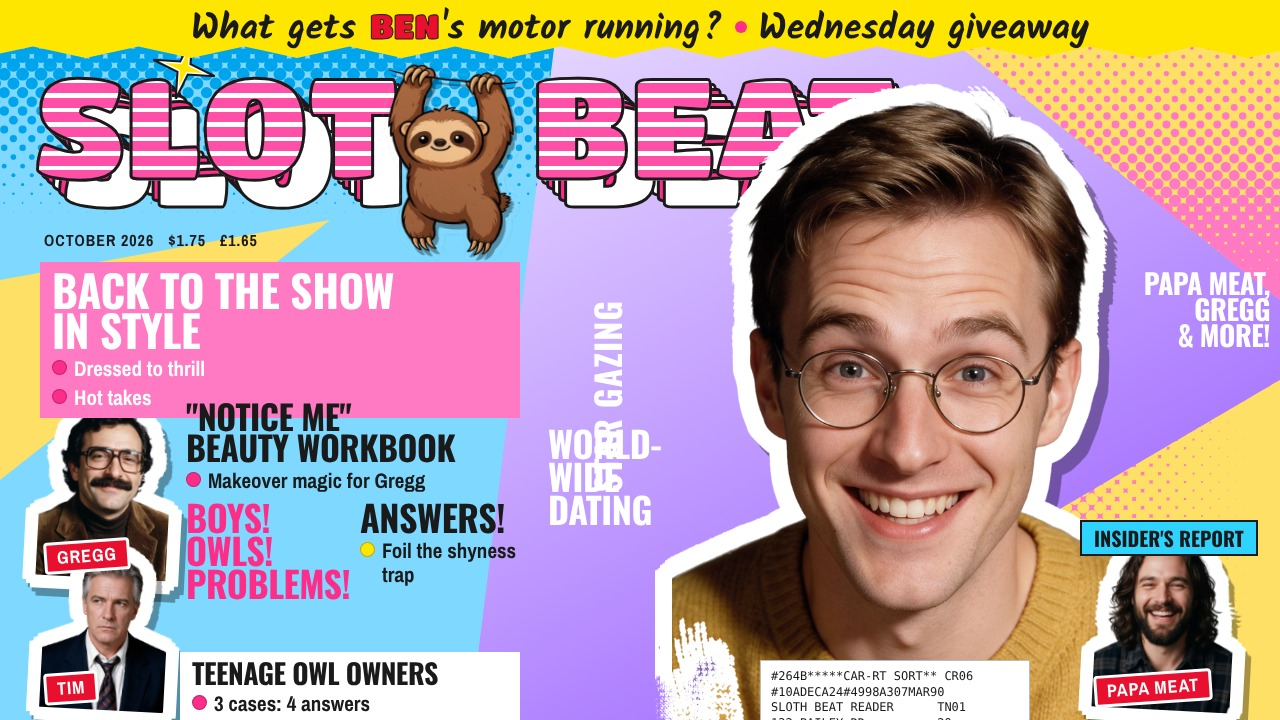
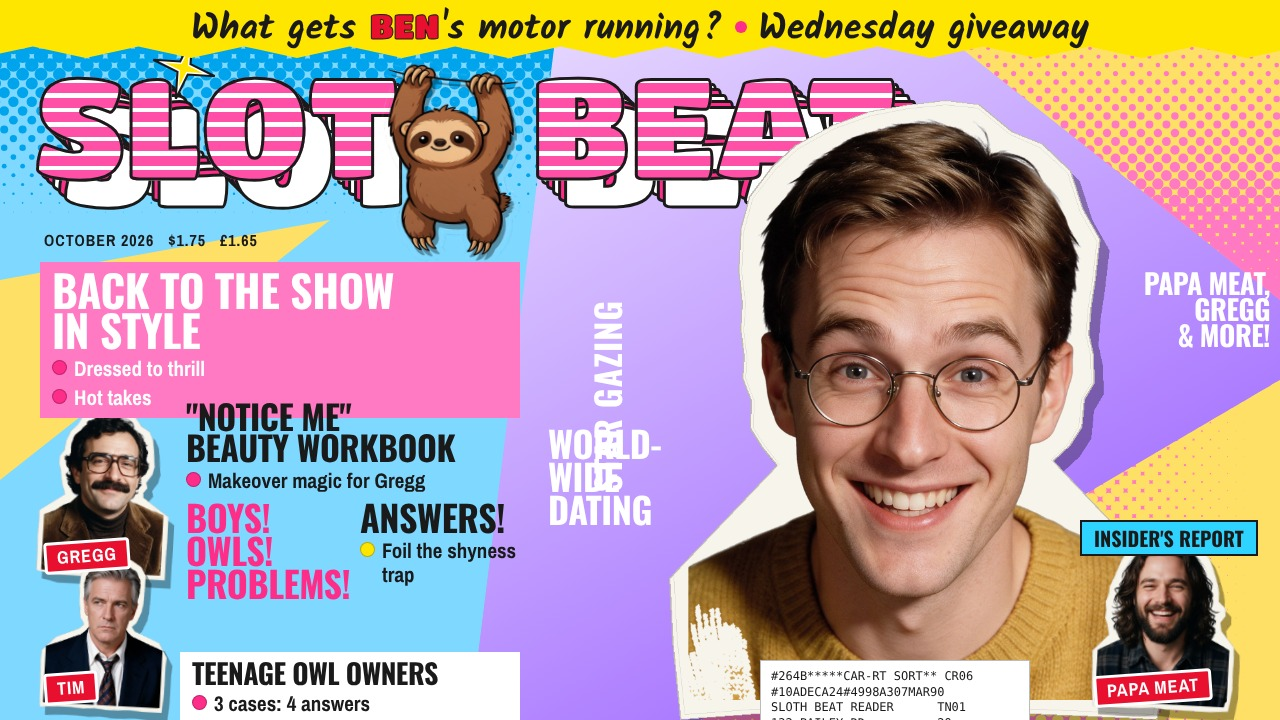
Sloth Beat v7: hand-cut paper margins on the cut-outs
Claude-Session: https://claude.ai/code/session_019p8SwDYgnY8vbcMXRQhZJi

Changed region(s): [[0.5, 0.0917, 1.0, 1.0], [0.0, 0.5806, 0.1562, 1.0]]

diff --git a/mockups/sloth_beat/01_papa_meat_v7.html b/mockups/sloth_beat/01_papa_meat_v7.html
@@ -5,5 +5,5 @@
 <div class="topstrip">The truth about <b>PAPA MEAT</b>'s obsession<i></i>22 stories inside</div>
 <div class="mast"><span class="layer l0">SLOT<span class="h">H</span> BEAT</span><span class="layer l1">SLOT<span class="h">H</span> BEAT</span><span class="layer l2">SLOT<span class="h">H</span> BEAT</span><span class="layer l3">SLOT<span class="h">H</span> BEAT</span><span class="layer l4">SLOT<span class="h">H</span> BEAT</span><span class="layer front">SLOT<span class="h">H</span> BEAT</span><svg class="glint" viewBox="0 0 60 60"><path d="M30 0 L35 25 L60 30 L35 35 L30 60 L25 35 L0 30 L25 25 Z" fill="#fff" stroke="#1a1a1a" stroke-width="2"/><path d="M30 12 L33 27 L48 30 L33 33 L30 48 L27 33 L12 30 L27 27 Z" fill="#ffe600"/></svg></div><img class="sloth" src="sloth_sticker.png">
 <div class="dateline">OCTOBER 2026 &nbsp; $1.75 &nbsp; &pound;1.65</div>
-<img class="mainphoto" src="photo_a.png" style="left:640px;top:110px;width:560px;height:610px;z-index:5"><div class="script" style="left:42px;top:262px;color:#ffe600;font-size:42px;transform:rotate(-3deg);z-index:8">stories you'll lose sleep over!</div><img class="sticker" src="photo_b.png" style="left:40px;top:290px;width:150px;height:212px;z-index:6;transform:rotate(3deg);filter:drop-shadow(5px 0px 0 #fff) drop-shadow(-5px 0px 0 #fff) drop-shadow(0px 5px 0 #fff) drop-shadow(0px -5px 0 #fff) drop-shadow(4px 4px 0 #fff) drop-shadow(-4px 4px 0 #fff) drop-shadow(4px -4px 0 #fff) drop-shadow(-4px -4px 0 #fff) drop-shadow(6px 8px 0 rgba(0,0,0,.35))"><div class="nametag" style="left:44px;top:464px;z-index:7">BEN</div><div class="cl" style="left:206px;top:322px;width:330px;z-index:8;text-align:left;"><div class="head" style="color:#fff;font-size:40px">HE'S A WINNER</div><div class="sub" style="color:#fff"><i style="background:#2fd3ff"></i>Meet Ben Avery, 5 hours live, every Wednesday</div></div><div class="cl" style="left:206px;top:430px;width:330px;z-index:8;text-align:left;"><div class="head" style="color:#fff;font-size:40px">THE LATEST<br>ON THE OWL</div><div class="sub" style="color:#fff"><i style="background:#2fd3ff"></i>A new perch at last</div></div><div class="cl" style="left:40px;top:512px;width:180px;z-index:8;text-align:left;"><div class="head" style="color:#fff;font-size:34px">STORY<br>GONE<br>LONG</div><div class="sub" style="color:#fff"><i style="background:#ffe600"></i>When the cabin tale goes too far</div></div><div class="cl" style="left:230px;top:540px;width:230px;z-index:8;text-align:left;"><div class="head" style="color:#1a1a1a;font-size:40px">GREGG'S<br>JITTERS</div><div class="sub" style="color:#1a1a1a"><i style="background:#2fd3ff"></i>From awkward to awesome</div></div><div class="cl" style="left:556px;top:380px;width:140px;z-index:8;text-align:left;"><div class="head" style="color:#fff;font-size:44px">FIVE<br>BAGS?</div><div class="sub" style="color:#fff"><i style="background:#ff2d8a"></i>Easy popcorn</div></div><div class="cl" style="left:40px;top:664px;width:420px;z-index:8;text-align:left;background:#ffe066;padding:8px 12px;"><div class="head" style="color:#1a1a1a;font-size:28px">'SLOTH BEAT INQUIRER...</div></div><img class="sticker" src="photo_c.png" style="left:470px;top:513px;width:120px;height:153px;z-index:6;transform:rotate(3deg);filter:drop-shadow(5px 0px 0 #fff) drop-shadow(-5px 0px 0 #fff) drop-shadow(0px 5px 0 #fff) drop-shadow(0px -5px 0 #fff) drop-shadow(4px 4px 0 #fff) drop-shadow(-4px 4px 0 #fff) drop-shadow(4px -4px 0 #fff) drop-shadow(-4px -4px 0 #fff) drop-shadow(6px 8px 0 rgba(0,0,0,.35))"><div class="nametag" style="left:474px;top:628px;z-index:7">TIM</div><img class="sticker" src="photo_d.png" style="left:600px;top:535px;width:110px;height:141px;z-index:6;transform:rotate(3deg);filter:drop-shadow(5px 0px 0 #fff) drop-shadow(-5px 0px 0 #fff) drop-shadow(0px 5px 0 #fff) drop-shadow(0px -5px 0 #fff) drop-shadow(4px 4px 0 #fff) drop-shadow(-4px 4px 0 #fff) drop-shadow(4px -4px 0 #fff) drop-shadow(-4px -4px 0 #fff) drop-shadow(6px 8px 0 rgba(0,0,0,.35))"><div class="nametag" style="left:604px;top:638px;z-index:7">GREGG</div><img class="sticker" src="photo_owl.png" style="left:1050px;top:490px;width:150px;height:200px;z-index:9;transform:rotate(3deg);filter:drop-shadow(5px 0px 0 #2fd3ff) drop-shadow(-5px 0px 0 #2fd3ff) drop-shadow(0px 5px 0 #2fd3ff) drop-shadow(0px -5px 0 #2fd3ff) drop-shadow(4px 4px 0 #2fd3ff) drop-shadow(-4px 4px 0 #2fd3ff) drop-shadow(4px -4px 0 #2fd3ff) drop-shadow(-4px -4px 0 #2fd3ff) drop-shadow(6px 8px 0 rgba(0,0,0,.35))"><div class="nametag" style="left:1054px;top:652px;z-index:10">THE OWL</div><div class="cl" style="left:1108px;top:322px;width:166px;z-index:9;text-align:right;"><div class="head" style="color:#1a1a1a;font-size:30px">FASHION</div><div class="sub" style="color:#1a1a1a"><i style="background:#ff2d8a"></i>Nautical and nice</div><div class="sub" style="color:#1a1a1a"><i style="background:#ff2d8a"></i>Full speed ahead</div></div><div class="tab" style="left:1060px;top:470px">insider's report</div><div class="mail" style="left:900px;top:660px">#264B*****CAR-RT SORT** CR06<br>#10ADECA24#4998A307MAR90<br>SLOTH BEAT READER &nbsp;&nbsp;&nbsp;&nbsp; TN01<br>132 BAILEY RD &nbsp;&nbsp;&nbsp;&nbsp;&nbsp;&nbsp;&nbsp;&nbsp; 29<br>ROCKY HILL &nbsp;&nbsp;&nbsp;&nbsp;&nbsp; CT 06067</div><div class="heartdot" style="left:600px;top:300px">&#9829;</div>
+<img class="mainphoto" src="photo_a_cut.png" style="left:640px;top:110px;width:560px;height:610px;z-index:5"><div class="script" style="left:42px;top:262px;color:#ffe600;font-size:42px;transform:rotate(-3deg);z-index:8">stories you'll lose sleep over!</div><img class="sticker" src="photo_b_cut.png" style="left:40px;top:290px;width:150px;height:212px;z-index:6;transform:rotate(3deg);filter:drop-shadow(6px 8px 0 rgba(0,0,0,.35))"><div class="nametag" style="left:44px;top:464px;z-index:7">BEN</div><div class="cl" style="left:206px;top:322px;width:330px;z-index:8;text-align:left;"><div class="head" style="color:#fff;font-size:40px">HE'S A WINNER</div><div class="sub" style="color:#fff"><i style="background:#2fd3ff"></i>Meet Ben Avery, 5 hours live, every Wednesday</div></div><div class="cl" style="left:206px;top:430px;width:330px;z-index:8;text-align:left;"><div class="head" style="color:#fff;font-size:40px">THE LATEST<br>ON THE OWL</div><div class="sub" style="color:#fff"><i style="background:#2fd3ff"></i>A new perch at last</div></div><div class="cl" style="left:40px;top:512px;width:180px;z-index:8;text-align:left;"><div class="head" style="color:#fff;font-size:34px">STORY<br>GONE<br>LONG</div><div class="sub" style="color:#fff"><i style="background:#ffe600"></i>When the cabin tale goes too far</div></div><div class="cl" style="left:230px;top:540px;width:230px;z-index:8;text-align:left;"><div class="head" style="color:#1a1a1a;font-size:40px">GREGG'S<br>JITTERS</div><div class="sub" style="color:#1a1a1a"><i style="background:#2fd3ff"></i>From awkward to awesome</div></div><div class="cl" style="left:556px;top:380px;width:140px;z-index:8;text-align:left;"><div class="head" style="color:#fff;font-size:44px">FIVE<br>BAGS?</div><div class="sub" style="color:#fff"><i style="background:#ff2d8a"></i>Easy popcorn</div></div><div class="cl" style="left:40px;top:664px;width:420px;z-index:8;text-align:left;background:#ffe066;padding:8px 12px;"><div class="head" style="color:#1a1a1a;font-size:28px">'SLOTH BEAT INQUIRER...</div></div><img class="sticker" src="photo_c_cut.png" style="left:470px;top:513px;width:120px;height:153px;z-index:6;transform:rotate(3deg);filter:drop-shadow(6px 8px 0 rgba(0,0,0,.35))"><div class="nametag" style="left:474px;top:628px;z-index:7">TIM</div><img class="sticker" src="photo_d_cut.png" style="left:600px;top:535px;width:110px;height:141px;z-index:6;transform:rotate(3deg);filter:drop-shadow(6px 8px 0 rgba(0,0,0,.35))"><div class="nametag" style="left:604px;top:638px;z-index:7">GREGG</div><img class="sticker" src="photo_owl_cut.png" style="left:1050px;top:490px;width:150px;height:200px;z-index:9;transform:rotate(3deg);filter:drop-shadow(6px 8px 0 rgba(0,0,0,.35))"><div class="nametag" style="left:1054px;top:652px;z-index:10">THE OWL</div><div class="cl" style="left:1118px;top:300px;width:156px;z-index:9;text-align:right;"><div class="head" style="color:#1a1a1a;font-size:30px">FASHION</div><div class="sub" style="color:#1a1a1a"><i style="background:#ff2d8a"></i>Nautical and nice</div><div class="sub" style="color:#1a1a1a"><i style="background:#ff2d8a"></i>Full speed ahead</div></div><div class="tab" style="left:1060px;top:470px">insider's report</div><div class="mail" style="left:900px;top:660px">#264B*****CAR-RT SORT** CR06<br>#10ADECA24#4998A307MAR90<br>SLOTH BEAT READER &nbsp;&nbsp;&nbsp;&nbsp; TN01<br>132 BAILEY RD &nbsp;&nbsp;&nbsp;&nbsp;&nbsp;&nbsp;&nbsp;&nbsp; 29<br>ROCKY HILL &nbsp;&nbsp;&nbsp;&nbsp;&nbsp; CT 06067</div><div class="heartdot" style="left:600px;top:300px">&#9829;</div>
 </div></body></html>

diff --git a/mockups/sloth_beat/02_ben_avery_v7.html b/mockups/sloth_beat/02_ben_avery_v7.html
@@ -5,5 +5,5 @@
 <div class="topstrip">What gets <b>BEN</b>'s motor running?<i></i>Wednesday giveaway</div>
 <div class="mast"><span class="layer l0">SLOT<span class="h">H</span> BEAT</span><span class="layer l1">SLOT<span class="h">H</span> BEAT</span><span class="layer l2">SLOT<span class="h">H</span> BEAT</span><span class="layer l3">SLOT<span class="h">H</span> BEAT</span><span class="layer l4">SLOT<span class="h">H</span> BEAT</span><span class="layer front">SLOT<span class="h">H</span> BEAT</span><svg class="glint" viewBox="0 0 60 60"><path d="M30 0 L35 25 L60 30 L35 35 L30 60 L25 35 L0 30 L25 25 Z" fill="#fff" stroke="#1a1a1a" stroke-width="2"/><path d="M30 12 L33 27 L48 30 L33 33 L30 48 L27 33 L12 30 L27 27 Z" fill="#ffe600"/></svg></div><img class="sloth" src="sloth_sticker.png">
 <div class="dateline">OCTOBER 2026 &nbsp; $1.75 &nbsp; &pound;1.65</div>
-<img class="mainphoto" src="photo_b.png" style="left:620px;top:100px;width:600px;height:620px;z-index:5"><div class="cl" style="left:40px;top:262px;width:480px;z-index:8;text-align:left;background:#ff7ac3;padding:8px 12px;"><div class="head" style="color:#fff;font-size:44px">BACK TO THE SHOW<br>IN STYLE</div><div class="sub" style="color:#fff"><i style="background:#ff2d8a"></i>Dressed to thrill</div><div class="sub" style="color:#fff"><i style="background:#ff2d8a"></i>Hot takes</div></div><img class="sticker" src="photo_d.png" style="left:40px;top:401px;width:130px;height:177px;z-index:6;transform:rotate(3deg);filter:drop-shadow(5px 0px 0 #fff) drop-shadow(-5px 0px 0 #fff) drop-shadow(0px 5px 0 #fff) drop-shadow(0px -5px 0 #fff) drop-shadow(4px 4px 0 #fff) drop-shadow(-4px 4px 0 #fff) drop-shadow(4px -4px 0 #fff) drop-shadow(-4px -4px 0 #fff) drop-shadow(6px 8px 0 rgba(0,0,0,.35))"><div class="nametag" style="left:44px;top:540px;z-index:7">GREGG</div><div class="cl" style="left:186px;top:400px;width:340px;z-index:8;text-align:left;"><div class="head" style="color:#1a1a1a;font-size:34px">"NOTICE ME"<br>BEAUTY WORKBOOK</div><div class="sub" style="color:#1a1a1a"><i style="background:#ff2d8a"></i>Makeover magic for Gregg</div></div><div class="cl" style="left:186px;top:500px;width:180px;z-index:8;text-align:left;"><div class="head" style="color:#ff2d8a;font-size:36px">BOYS!<br>OWLS!<br>PROBLEMS!</div></div><div class="cl" style="left:360px;top:500px;width:170px;z-index:8;text-align:left;"><div class="head" style="color:#1a1a1a;font-size:36px">ANSWERS!</div><div class="sub" style="color:#1a1a1a"><i style="background:#ffe600"></i>Foil the shyness trap</div></div><img class="sticker" src="photo_c.png" style="left:40px;top:557px;width:130px;height:153px;z-index:6;transform:rotate(3deg);filter:drop-shadow(5px 0px 0 #fff) drop-shadow(-5px 0px 0 #fff) drop-shadow(0px 5px 0 #fff) drop-shadow(0px -5px 0 #fff) drop-shadow(4px 4px 0 #fff) drop-shadow(-4px 4px 0 #fff) drop-shadow(4px -4px 0 #fff) drop-shadow(-4px -4px 0 #fff) drop-shadow(6px 8px 0 rgba(0,0,0,.35))"><div class="nametag" style="left:44px;top:672px;z-index:7">TIM</div><div class="cl" style="left:548px;top:426px;width:150px;z-index:8;text-align:left;"><div class="head" style="color:#fff;font-size:36px">WORLD-<br>WIDE<br>DATING</div></div><div class="cl" style="left:1090px;top:270px;width:180px;z-index:9;text-align:right;"><div class="head" style="color:#fff;font-size:28px">PAPA MEAT,<br>GREGG<br>&amp; MORE!</div></div><img class="sticker" src="photo_a.png" style="left:1090px;top:533px;width:150px;height:177px;z-index:9;transform:rotate(3deg);filter:drop-shadow(5px 0px 0 #fff) drop-shadow(-5px 0px 0 #fff) drop-shadow(0px 5px 0 #fff) drop-shadow(0px -5px 0 #fff) drop-shadow(4px 4px 0 #fff) drop-shadow(-4px 4px 0 #fff) drop-shadow(4px -4px 0 #fff) drop-shadow(-4px -4px 0 #fff) drop-shadow(6px 8px 0 rgba(0,0,0,.35))"><div class="nametag" style="left:1094px;top:672px;z-index:10">PAPA MEAT</div><div class="tab" style="left:1080px;top:520px">insider's report</div><div class="cl" style="left:180px;top:652px;width:340px;z-index:8;text-align:left;background:#fff;padding:8px 12px;"><div class="head" style="color:#1a1a1a;font-size:28px">TEENAGE OWL OWNERS</div><div class="sub" style="color:#1a1a1a"><i style="background:#ff2d8a"></i>3 cases: 4 answers</div></div><div class="vert" style="left:590px;top:300px">Star gazing</div><div class="mail" style="left:760px;top:660px">#264B*****CAR-RT SORT** CR06<br>#10ADECA24#4998A307MAR90<br>SLOTH BEAT READER &nbsp;&nbsp;&nbsp;&nbsp; TN01<br>132 BAILEY RD &nbsp;&nbsp;&nbsp;&nbsp;&nbsp;&nbsp;&nbsp;&nbsp; 29<br>ROCKY HILL &nbsp;&nbsp;&nbsp;&nbsp;&nbsp; CT 06067</div>
+<img class="mainphoto" src="photo_b_cut.png" style="left:620px;top:100px;width:600px;height:620px;z-index:5"><div class="cl" style="left:40px;top:262px;width:480px;z-index:8;text-align:left;background:#ff7ac3;padding:8px 12px;"><div class="head" style="color:#fff;font-size:44px">BACK TO THE SHOW<br>IN STYLE</div><div class="sub" style="color:#fff"><i style="background:#ff2d8a"></i>Dressed to thrill</div><div class="sub" style="color:#fff"><i style="background:#ff2d8a"></i>Hot takes</div></div><img class="sticker" src="photo_d_cut.png" style="left:40px;top:401px;width:130px;height:177px;z-index:6;transform:rotate(3deg);filter:drop-shadow(6px 8px 0 rgba(0,0,0,.35))"><div class="nametag" style="left:44px;top:540px;z-index:7">GREGG</div><div class="cl" style="left:186px;top:400px;width:340px;z-index:8;text-align:left;"><div class="head" style="color:#1a1a1a;font-size:34px">"NOTICE ME"<br>BEAUTY WORKBOOK</div><div class="sub" style="color:#1a1a1a"><i style="background:#ff2d8a"></i>Makeover magic for Gregg</div></div><div class="cl" style="left:186px;top:500px;width:180px;z-index:8;text-align:left;"><div class="head" style="color:#ff2d8a;font-size:36px">BOYS!<br>OWLS!<br>PROBLEMS!</div></div><div class="cl" style="left:360px;top:500px;width:170px;z-index:8;text-align:left;"><div class="head" style="color:#1a1a1a;font-size:36px">ANSWERS!</div><div class="sub" style="color:#1a1a1a"><i style="background:#ffe600"></i>Foil the shyness trap</div></div><img class="sticker" src="photo_c_cut.png" style="left:40px;top:557px;width:130px;height:153px;z-index:6;transform:rotate(3deg);filter:drop-shadow(6px 8px 0 rgba(0,0,0,.35))"><div class="nametag" style="left:44px;top:672px;z-index:7">TIM</div><div class="cl" style="left:548px;top:426px;width:150px;z-index:8;text-align:left;"><div class="head" style="color:#fff;font-size:36px">WORLD-<br>WIDE<br>DATING</div></div><div class="cl" style="left:1090px;top:270px;width:180px;z-index:9;text-align:right;"><div class="head" style="color:#fff;font-size:28px">PAPA MEAT,<br>GREGG<br>&amp; MORE!</div></div><img class="sticker" src="photo_a_cut.png" style="left:1090px;top:533px;width:150px;height:177px;z-index:9;transform:rotate(3deg);filter:drop-shadow(6px 8px 0 rgba(0,0,0,.35))"><div class="nametag" style="left:1094px;top:672px;z-index:10">PAPA MEAT</div><div class="tab" style="left:1080px;top:520px">insider's report</div><div class="cl" style="left:180px;top:652px;width:340px;z-index:8;text-align:left;background:#fff;padding:8px 12px;"><div class="head" style="color:#1a1a1a;font-size:28px">TEENAGE OWL OWNERS</div><div class="sub" style="color:#1a1a1a"><i style="background:#ff2d8a"></i>3 cases: 4 answers</div></div><div class="vert" style="left:590px;top:300px">Star gazing</div><div class="mail" style="left:760px;top:660px">#264B*****CAR-RT SORT** CR06<br>#10ADECA24#4998A307MAR90<br>SLOTH BEAT READER &nbsp;&nbsp;&nbsp;&nbsp; TN01<br>132 BAILEY RD &nbsp;&nbsp;&nbsp;&nbsp;&nbsp;&nbsp;&nbsp;&nbsp; 29<br>ROCKY HILL &nbsp;&nbsp;&nbsp;&nbsp;&nbsp; CT 06067</div>
 </div></body></html>

diff --git a/mockups/sloth_beat/03_on_cinema_v7.html b/mockups/sloth_beat/03_on_cinema_v7.html
@@ -5,5 +5,5 @@
 <div class="topstrip">Inside: <b>GREGG</b>'s popcorn diary<i></i>16 seasons of beef</div>
 <div class="mast"><span class="layer l0">SLOT<span class="h">H</span> BEAT</span><span class="layer l1">SLOT<span class="h">H</span> BEAT</span><span class="layer l2">SLOT<span class="h">H</span> BEAT</span><span class="layer l3">SLOT<span class="h">H</span> BEAT</span><span class="layer l4">SLOT<span class="h">H</span> BEAT</span><span class="layer front">SLOT<span class="h">H</span> BEAT</span><svg class="glint" viewBox="0 0 60 60"><path d="M30 0 L35 25 L60 30 L35 35 L30 60 L25 35 L0 30 L25 25 Z" fill="#fff" stroke="#1a1a1a" stroke-width="2"/><path d="M30 12 L33 27 L48 30 L33 33 L30 48 L27 33 L12 30 L27 27 Z" fill="#ffe600"/></svg></div><img class="sloth" src="sloth_sticker.png">
 <div class="dateline">OCTOBER 2026 &nbsp; $1.75 &nbsp; &pound;1.65</div>
-<img class="mainphoto" src="photo_d.png" style="left:560px;top:120px;width:420px;height:600px;z-index:5"><img class="mainphoto" src="photo_c.png" style="left:860px;top:100px;width:420px;height:620px;z-index:4"><div class="script" style="left:42px;top:262px;color:#e8102e;font-size:42px;transform:rotate(-2deg);z-index:8">pull things together!</div><img class="sticker" src="photo_b.png" style="left:40px;top:286px;width:170px;height:236px;z-index:6;transform:rotate(3deg);filter:drop-shadow(5px 0px 0 #fff) drop-shadow(-5px 0px 0 #fff) drop-shadow(0px 5px 0 #fff) drop-shadow(0px -5px 0 #fff) drop-shadow(4px 4px 0 #fff) drop-shadow(-4px 4px 0 #fff) drop-shadow(4px -4px 0 #fff) drop-shadow(-4px -4px 0 #fff) drop-shadow(6px 8px 0 rgba(0,0,0,.35))"><div class="nametag" style="left:44px;top:484px;z-index:7">BEN</div><div class="cl" style="left:226px;top:322px;width:300px;z-index:8;text-align:left;"><div class="head" style="color:#1a1a1a;font-size:40px">BEST<br>BAGS<br>BETS</div><div class="sub" style="color:#1a1a1a"><i style="background:#ff2d8a"></i>Point by point popcorn</div></div><div class="cl" style="left:40px;top:548px;width:250px;z-index:8;text-align:left;background:#ff7ac3;padding:8px 12px;"><div class="head" style="color:#fff;font-size:32px">STAR GAZING</div><div class="sub" style="color:#fff"><i style="background:#ff2d8a"></i>Gregg Turkington</div><div class="sub" style="color:#fff"><i style="background:#ff2d8a"></i>Tim Heidecker</div><div class="sub" style="color:#fff"><i style="background:#ff2d8a"></i>And more</div></div><div class="cl" style="left:300px;top:480px;width:240px;z-index:8;text-align:left;background:#ffe066;padding:8px 12px;"><div class="head" style="color:#1a1a1a;font-size:30px">GO TOGETHERS</div><div class="sub" style="color:#1a1a1a"><i style="background:#ff2d8a"></i>Oscars for anything, everywhere</div></div><div class="cl" style="left:300px;top:580px;width:240px;z-index:8;text-align:left;"><div class="head" style="color:#1a1a1a;font-size:36px">SILENT<br>SIGNALS</div><div class="sub" style="color:#1a1a1a"><i style="background:#2fd3ff"></i>Strong language</div></div><div class="cl" style="left:560px;top:560px;width:300px;z-index:9;text-align:left;background:#fff;padding:8px 12px;"><div class="head" style="color:#1a1a1a;font-size:34px">MISS POPCORN<br>AMERICA 2026</div><div class="sub" style="color:#1a1a1a"><i style="background:#ff2d8a"></i>Star student; whiz sportsgirl</div></div><img class="sticker" src="photo_owl.png" style="left:1090px;top:510px;width:150px;height:200px;z-index:9;transform:rotate(3deg);filter:drop-shadow(5px 0px 0 #ffe600) drop-shadow(-5px 0px 0 #ffe600) drop-shadow(0px 5px 0 #ffe600) drop-shadow(0px -5px 0 #ffe600) drop-shadow(4px 4px 0 #ffe600) drop-shadow(-4px 4px 0 #ffe600) drop-shadow(4px -4px 0 #ffe600) drop-shadow(-4px -4px 0 #ffe600) drop-shadow(6px 8px 0 rgba(0,0,0,.35))"><div class="nametag" style="left:1094px;top:672px;z-index:10">THE OWL</div><div class="cl" style="left:880px;top:462px;width:190px;z-index:9;text-align:left;background:#fff;padding:8px 12px;"><div class="head" style="color:#1a1a1a;font-size:30px">HAIR<br>HASSLES?</div><div class="sub" style="color:#1a1a1a"><i style="background:#ff2d8a"></i>Take-charge tips</div></div><div class="mail" style="left:560px;top:676px">#264B*****CAR-RT SORT** CR06<br>#10ADECA24#4998A307MAR90<br>SLOTH BEAT READER &nbsp;&nbsp;&nbsp;&nbsp; TN01<br>132 BAILEY RD &nbsp;&nbsp;&nbsp;&nbsp;&nbsp;&nbsp;&nbsp;&nbsp; 29<br>ROCKY HILL &nbsp;&nbsp;&nbsp;&nbsp;&nbsp; CT 06067</div>
+<img class="mainphoto" src="photo_d_cut.png" style="left:560px;top:120px;width:420px;height:600px;z-index:5"><img class="mainphoto" src="photo_c_cut.png" style="left:860px;top:100px;width:420px;height:620px;z-index:4"><div class="script" style="left:42px;top:262px;color:#e8102e;font-size:42px;transform:rotate(-2deg);z-index:8">pull things together!</div><img class="sticker" src="photo_b_cut.png" style="left:40px;top:286px;width:170px;height:236px;z-index:6;transform:rotate(3deg);filter:drop-shadow(6px 8px 0 rgba(0,0,0,.35))"><div class="nametag" style="left:44px;top:484px;z-index:7">BEN</div><div class="cl" style="left:226px;top:322px;width:300px;z-index:8;text-align:left;"><div class="head" style="color:#1a1a1a;font-size:40px">BEST<br>BAGS<br>BETS</div><div class="sub" style="color:#1a1a1a"><i style="background:#ff2d8a"></i>Point by point popcorn</div></div><div class="cl" style="left:40px;top:548px;width:250px;z-index:8;text-align:left;background:#ff7ac3;padding:8px 12px;"><div class="head" style="color:#fff;font-size:32px">STAR GAZING</div><div class="sub" style="color:#fff"><i style="background:#ff2d8a"></i>Gregg Turkington</div><div class="sub" style="color:#fff"><i style="background:#ff2d8a"></i>Tim Heidecker</div><div class="sub" style="color:#fff"><i style="background:#ff2d8a"></i>And more</div></div><div class="cl" style="left:300px;top:480px;width:240px;z-index:8;text-align:left;background:#ffe066;padding:8px 12px;"><div class="head" style="color:#1a1a1a;font-size:30px">GO TOGETHERS</div><div class="sub" style="color:#1a1a1a"><i style="background:#ff2d8a"></i>Oscars for anything, everywhere</div></div><div class="cl" style="left:300px;top:580px;width:240px;z-index:8;text-align:left;"><div class="head" style="color:#1a1a1a;font-size:36px">SILENT<br>SIGNALS</div><div class="sub" style="color:#1a1a1a"><i style="background:#2fd3ff"></i>Strong language</div></div><div class="cl" style="left:560px;top:560px;width:300px;z-index:9;text-align:left;background:#fff;padding:8px 12px;"><div class="head" style="color:#1a1a1a;font-size:34px">MISS POPCORN<br>AMERICA 2026</div><div class="sub" style="color:#1a1a1a"><i style="background:#ff2d8a"></i>Star student; whiz sportsgirl</div></div><img class="sticker" src="photo_owl_cut.png" style="left:1090px;top:510px;width:150px;height:200px;z-index:9;transform:rotate(3deg);filter:drop-shadow(6px 8px 0 rgba(0,0,0,.35))"><div class="nametag" style="left:1094px;top:672px;z-index:10">THE OWL</div><div class="cl" style="left:880px;top:462px;width:190px;z-index:9;text-align:left;background:#fff;padding:8px 12px;"><div class="head" style="color:#1a1a1a;font-size:30px">HAIR<br>HASSLES?</div><div class="sub" style="color:#1a1a1a"><i style="background:#ff2d8a"></i>Take-charge tips</div></div><div class="mail" style="left:560px;top:676px">#264B*****CAR-RT SORT** CR06<br>#10ADECA24#4998A307MAR90<br>SLOTH BEAT READER &nbsp;&nbsp;&nbsp;&nbsp; TN01<br>132 BAILEY RD &nbsp;&nbsp;&nbsp;&nbsp;&nbsp;&nbsp;&nbsp;&nbsp; 29<br>ROCKY HILL &nbsp;&nbsp;&nbsp;&nbsp;&nbsp; CT 06067</div>
 </div></body></html>

diff --git a/mockups/sloth_beat/cover_v7.css b/mockups/sloth_beat/cover_v7.css
@@ -24,7 +24,7 @@ html,body{width:1280px;height:720px;overflow:hidden;background:#222}
 .sloth{left:380px;top:60px;width:140px;height:200px;z-index:7;transform:rotate(2deg);filter:drop-shadow(3px 5px 0 rgba(0,0,0,.35))}
 .dateline{left:44px;top:232px;z-index:8;font:700 16px/1 "Archivo Narrow";letter-spacing:1px;color:#1a1a1a;text-transform:uppercase}
 /* photos */
-.mainphoto{object-fit:contain;object-position:bottom center;filter:drop-shadow(7px 0 0 #fff) drop-shadow(-7px 0 0 #fff) drop-shadow(0 7px 0 #fff) drop-shadow(0 -7px 0 #fff) drop-shadow(5px 5px 0 #fff) drop-shadow(-5px 5px 0 #fff) drop-shadow(5px -5px 0 #fff) drop-shadow(-5px -5px 0 #fff) drop-shadow(10px 12px 0 rgba(0,0,0,.35))}
+.mainphoto{object-fit:contain;object-position:bottom center;filter:drop-shadow(9px 11px 0 rgba(0,0,0,.32))}
 .frame{border:7px solid #fff;outline:2px solid #1a1a1a;overflow:hidden;box-shadow:4px 5px 0 rgba(0,0,0,.25)}
 .frame img{position:absolute;left:0;bottom:-2px;width:100%;height:104%;object-fit:cover;object-position:top center}
 .sticker{object-fit:contain;object-position:bottom center}

diff --git a/HANDOFF.md b/HANDOFF.md
@@ -420,7 +420,9 @@ chose: Content Posting API upload to inbox, user taps post), #29 direct posting 
   (two of the 'Teen scans did not arrive as files; notes only). User chose v6 and asked for a mix: **v7** = v6 layout with gradient panels and two-ink crossover halftones on the wedges (user's reference in
   `refs/halftone_gradient_ref.*`; text never on a face or on dots; small portraits as stickers with red name
   bars; main portrait a cut-out too; wire sloth (`sloth_sticker.png`) is the mascot after all; wavy yellow
-  ribbon with teasing copy on top; an overlap check (text box vs photo alpha, boxed lines exempt) passes; `refs/halftone_swatches.*` = the palette's ink pairs; `*_v5hp.*` = v5 with halftone instead of mosaic) (`*_v7.*`),
+  ribbon with teasing copy on top; an overlap check (text box vs photo alpha, boxed lines exempt) passes; cut-outs have a **hand-cut paper
+  margin** baked in (`handcut.py`: dilate, coarse radial polygon with wobble, off-white paper), per the
+  user's collage reference; `refs/halftone_swatches.*` = the palette's ink pairs; `*_v5hp.*` = v5 with halftone instead of mosaic) (`*_v7.*`),
   **the current direction**. Next: real frames from the user, Illustrator master, `[thumbnail] style = "fanmag"`.
   Waiting on the user's reaction; then Illustrator master, `style = "fanmag"`, `clipper intro`.
 - **Renderer decision (proposed, user leaning this way):** the channel's thumbs style is an HTML/CSS

diff --git a/mockups/sloth_beat/README.md b/mockups/sloth_beat/README.md
@@ -50,6 +50,14 @@ is judged too busy and dropped as a direction. **Overlap check:** `overlap.js` (
 to become part of the thumbs stage) draws every photo's alpha into a canvas and flags any
 coverline whose box covers more than 3% photo pixels; boxed lines with a solid background are
 exempt (the 'Teen "FASHION" box device). All three covers pass.
+**Hand-cut edges** (user, with a collage reference, `refs/handcut_collage_ref.png`): the sticker
+outline is no longer a CSS halo. `handcut.py` (session scratchpad, to join the thumbs stage) grows
+the silhouette by a paper margin (26 px on a 900 px source), traces it as a 46-point polygon from
+the figure's centroid with a few px of wobble, so the margin is straight scissor strokes that skip
+the concavities (hair, the neck), fills it with off-white paper with a grey cut edge, and composites
+the photo on top: `photo_*_cut.png`. Both the main portrait and the stickers use them; the cover
+adds only the hard shadow. The stand-in photos keep their rough flood-fill mattes (a white patch on
+one sweater): the real frames get the thumbs stage's person matte.
 **Small portraits are stickers again** (user, same day): cutouts with the white outline, hard shadow,
 a slight tilt and a red name bar inside the lower-left corner; the main photo stays borderless.
 **`*_v5hp.*`** is the v5 pop-art version with the mosaic tiles replaced by the same crossover halftone
